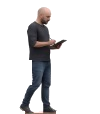
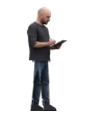
feat(studio): implement 10-frame bone-rigged 60fps canvas walk & tablet-idle engine for Benny (v3.5)

diff --git a/app.js b/app.js
@@ -1840,6 +1840,97 @@ function setupTeamAvatars() {
       // Voices loaded
     };
   }
+
+  // Initialize 60fps Biomechanical Canvas Rig for Benny (v3.5)
+  initBennyBiomechanicalRig();
+}
+
+/**
+ * 60fps Biomechanical 10-Frame Walk + Tablet-Reading Idle Engine for Arch. Benedetto Brattoli
+ * Frames 0..7: 8-phase articulated gait cycle (hip, knee & ankle-compensated suede shoes)
+ * Frame 8: Natural standing pose (feet planted flat on the border line)
+ * Frame 9: Standing tablet-tapping / head-nodding interaction pose
+ */
+function initBennyBiomechanicalRig() {
+  const canvas = document.getElementById('benny-perch-canvas');
+  const perch = document.getElementById('benny-perch-rig');
+  if (!canvas || !perch) return;
+
+  const ctx = canvas.getContext('2d');
+  const atlas = new Image();
+  atlas.src = 'assets/team/figures/benny-walk-atlas.png?v=3.5';
+
+  let state = 'WALK_RIGHT'; // WALK_RIGHT -> PAUSE_RIGHT -> WALK_LEFT -> PAUSE_LEFT
+  let posX = 0;
+  const maxPosX = 144;
+  const walkSpeed = 28; // px per second — synchronized with 8-frame stride length
+  const frameRate = 8.8; // walk frames per second
+  let walkCyclePos = 0;
+  let pauseElapsed = 0;
+  let facingDir = 1;
+  let lastTime = performance.now();
+
+  function renderFrame(frameIdx) {
+    ctx.clearRect(0, 0, 100, 114);
+    const sx = Math.max(0, Math.min(9, Math.floor(frameIdx))) * 100;
+    ctx.drawImage(atlas, sx, 0, 100, 114, 0, 0, 100, 114);
+  }
+
+  function tick(now) {
+    const dt = Math.min(0.05, (now - lastTime) / 1000);
+    lastTime = now;
+
+    if (state === 'WALK_RIGHT') {
+      facingDir = 1;
+      posX += walkSpeed * dt;
+      walkCyclePos = (walkCyclePos + frameRate * dt) % 8;
+      renderFrame(walkCyclePos);
+      if (posX >= maxPosX) {
+        posX = maxPosX;
+        state = 'PAUSE_RIGHT';
+        pauseElapsed = 0;
+      }
+    } else if (state === 'PAUSE_RIGHT') {
+      pauseElapsed += dt;
+      // Stand naturally on both feet (frame 8) and tap tablet twice with stylus (frame 9)
+      const isTapping = (pauseElapsed > 0.6 && pauseElapsed < 1.0) || (pauseElapsed > 1.5 && pauseElapsed < 1.9);
+      renderFrame(isTapping ? 9 : 8);
+      // Turn toward left while standing at 2.2s, then start walking at 2.6s
+      if (pauseElapsed > 2.25) facingDir = -1;
+      if (pauseElapsed >= 2.65) {
+        state = 'WALK_LEFT';
+        walkCyclePos = 0;
+      }
+    } else if (state === 'WALK_LEFT') {
+      facingDir = -1;
+      posX -= walkSpeed * dt;
+      walkCyclePos = (walkCyclePos + frameRate * dt) % 8;
+      renderFrame(walkCyclePos);
+      if (posX <= 0) {
+        posX = 0;
+        state = 'PAUSE_LEFT';
+        pauseElapsed = 0;
+      }
+    } else if (state === 'PAUSE_LEFT') {
+      pauseElapsed += dt;
+      const isTapping = (pauseElapsed > 0.5 && pauseElapsed < 0.9) || (pauseElapsed > 1.4 && pauseElapsed < 1.8);
+      renderFrame(isTapping ? 9 : 8);
+      if (pauseElapsed > 2.1) facingDir = 1;
+      if (pauseElapsed >= 2.5) {
+        state = 'WALK_RIGHT';
+        walkCyclePos = 0;
+      }
+    }
+
+    perch.style.transform = `translateX(${posX.toFixed(1)}px) scaleX(${facingDir})`;
+    requestAnimationFrame(tick);
+  }
+
+  atlas.onload = () => {
+    renderFrame(8);
+    lastTime = performance.now();
+    requestAnimationFrame(tick);
+  };
 }
 
 /**

diff --git a/index.html b/index.html
@@ -262,10 +262,9 @@
           
           <!-- AVATAR 1: BENNY BRATTOLI -->
           <div class="avatar-card" id="avatar-card-benedetto" data-member="benedetto">
-            <!-- MINIATURE PERCHED FIGURE: WALKING ON THE LINE (v3.4) -->
-            <div class="avatar-card-perch" data-member="benedetto" title="Arch. Benedetto Brattoli — Clicca per interagire">
-              <img src="assets/team/figures/figure-benedetto-1.png?v=3.4" alt="Arch. Benedetto Brattoli" class="avatar-perch-img frame-1">
-              <img src="assets/team/figures/figure-benedetto-2.png?v=3.4" alt="" aria-hidden="true" class="avatar-perch-img frame-2">
+            <!-- MINIATURE PERCHED FIGURE: 10-FRAME BIOMECHANICAL RIG ON THE LINE (v3.5) -->
+            <div class="avatar-card-perch" id="benny-perch-rig" data-member="benedetto" title="Arch. Benedetto Brattoli — Clicca per interagire">
+              <canvas id="benny-perch-canvas" class="avatar-perch-canvas" width="100" height="114"></canvas>
             </div>
             <div class="avatar-card-header">
               <div class="avatar-header-info">
@@ -826,6 +825,6 @@
     </div>
   </footer>
 
-  <script src="app.js?v=3.4"></script>
+  <script src="app.js?v=3.5"></script>
 </body>
 </html>

diff --git a/style.css b/style.css
@@ -1805,7 +1805,8 @@ body.theme-dark .reel-featured-card:hover .play-circle svg polygon {
   transform-origin: bottom center;
 }
 
-.avatar-perch-img {
+.avatar-perch-img,
+.avatar-perch-canvas {
   display: block;
   width: 100%;
   height: auto;
@@ -1828,21 +1829,15 @@ body.theme-dark .reel-featured-card:hover .play-circle svg polygon {
   z-index: 2;
 }
 
-/* 1. BENNY: Walking back and forth along the top border line */
+/* 1. BENNY: 60fps Biomechanical Canvas Rig walking & pausing along the top border line */
 #avatar-card-benedetto .avatar-card-perch {
   width: 84px;
   bottom: 100%;
   margin-bottom: -1px;
-  left: 18px;
+  left: 16px;
   top: auto;
   right: auto;
-  animation: bennyWalkLine 14s linear infinite;
-}
-#avatar-card-benedetto .avatar-perch-img.frame-1 {
-  animation: spriteStepF1 0.68s steps(1, end) infinite;
-}
-#avatar-card-benedetto .avatar-perch-img.frame-2 {
-  animation: spriteStepF2 0.68s steps(1, end) infinite;
+  will-change: transform;
 }
 
 /* 2. MICHELE: Seated directly on the top border line, unrolling & reading CAD blueprints */
